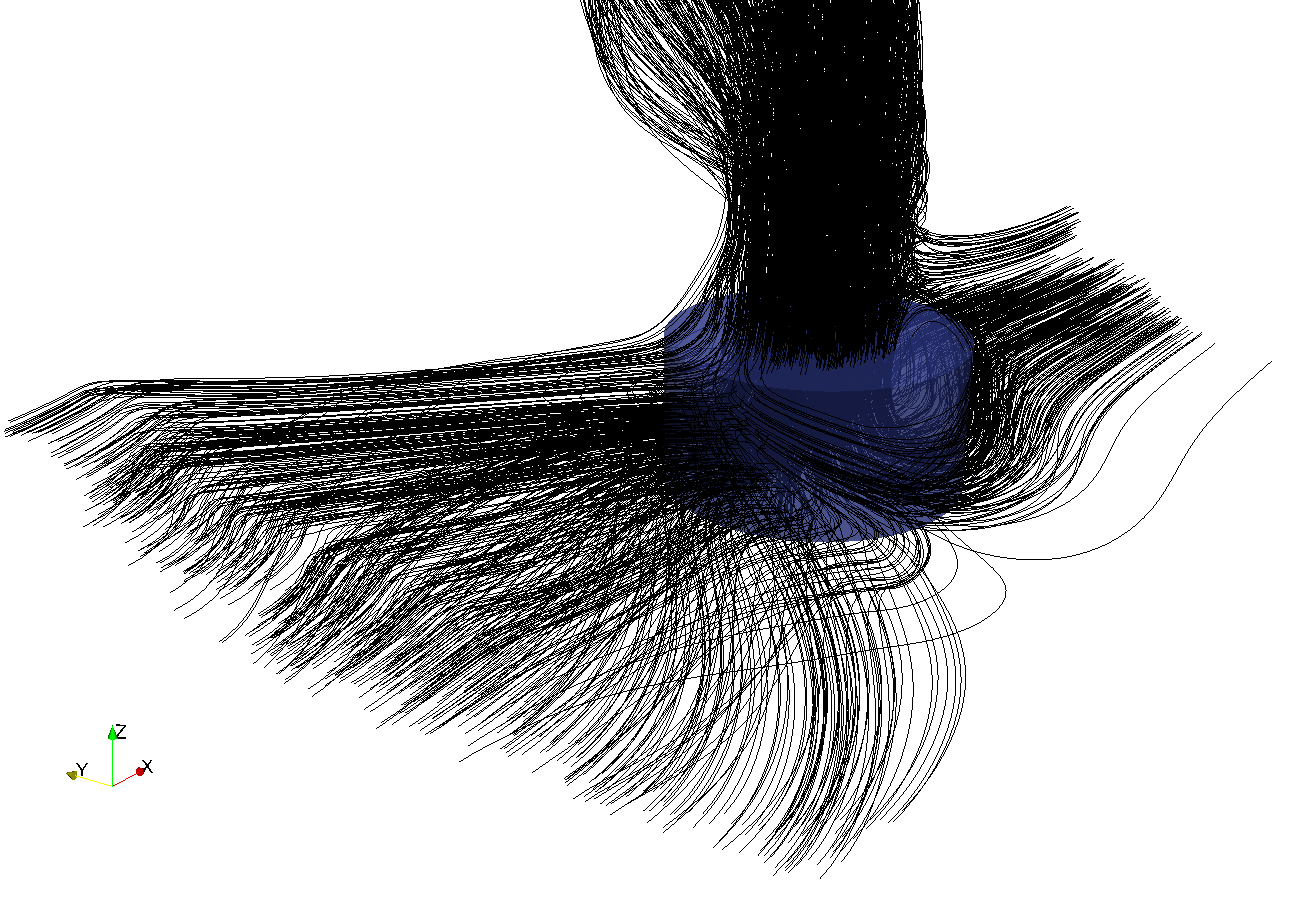
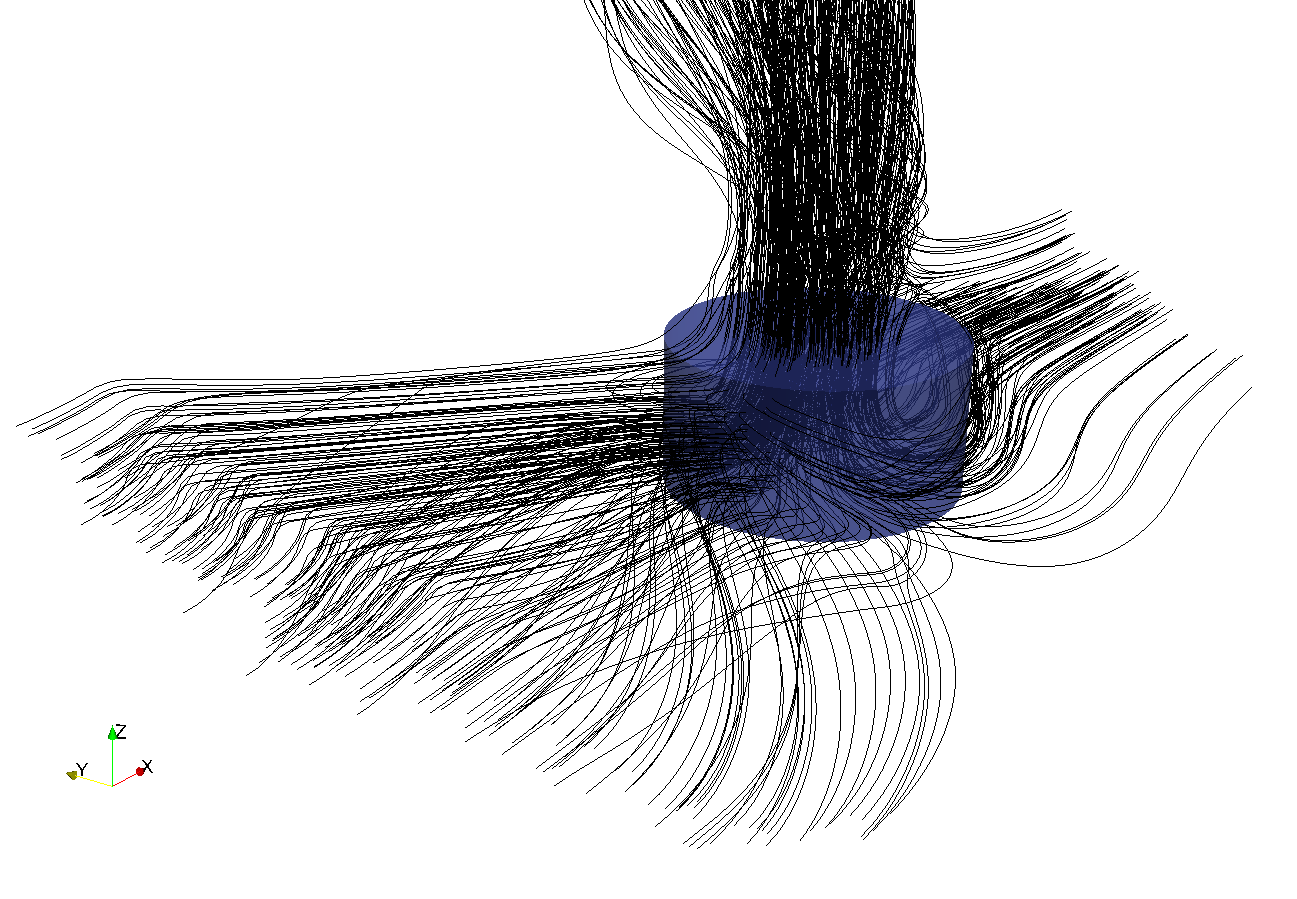
lowering streamline count

Changed region(s): [[0.0, 0.0, 0.9252, 0.9655]]

diff --git a/disputatio/dissertation/chapter-character.tex b/disputatio/dissertation/chapter-character.tex
@@ -36,7 +36,7 @@ two-tiers with ground temperature of 335 Kelvin and a freestream
 temperature of 313 Kelvin. There is no ambient velocity and the boundary
 conditions are as described in Chapter~\ref{sec:bc}.  
 
-The two tiers of vanes used for these cases are drawn in\todo{add table}
+The two tiers of vanes used for these cases are drawn in~\todo{add table}
 Figures~\ref{fig:thermal_vane_bottom} and \ref{fig:thermal_vane_top}.  
 Note that in the configuration, the vanes are aligned radially at the
 largest radius, and then increasingly curve towards azimuthal at smaller
